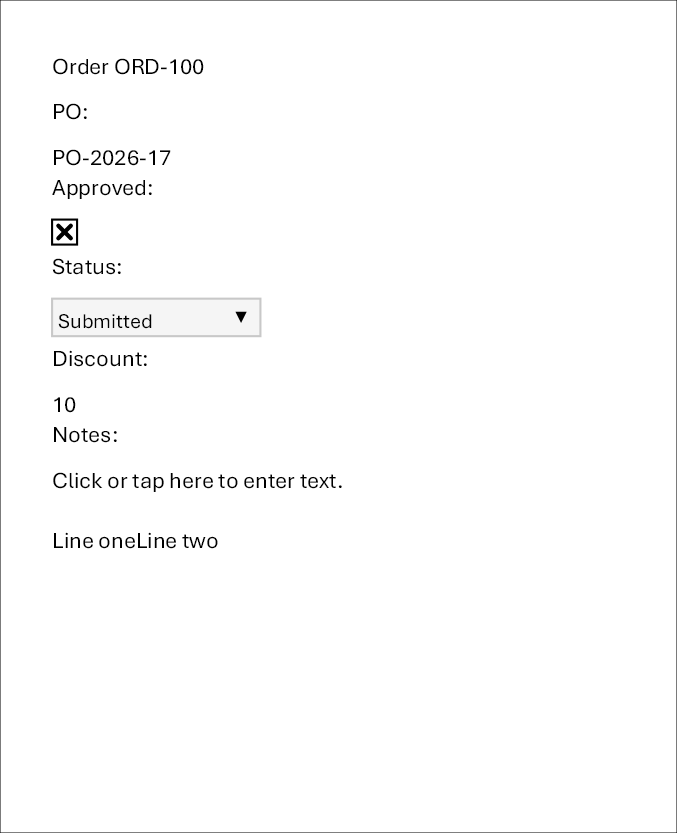
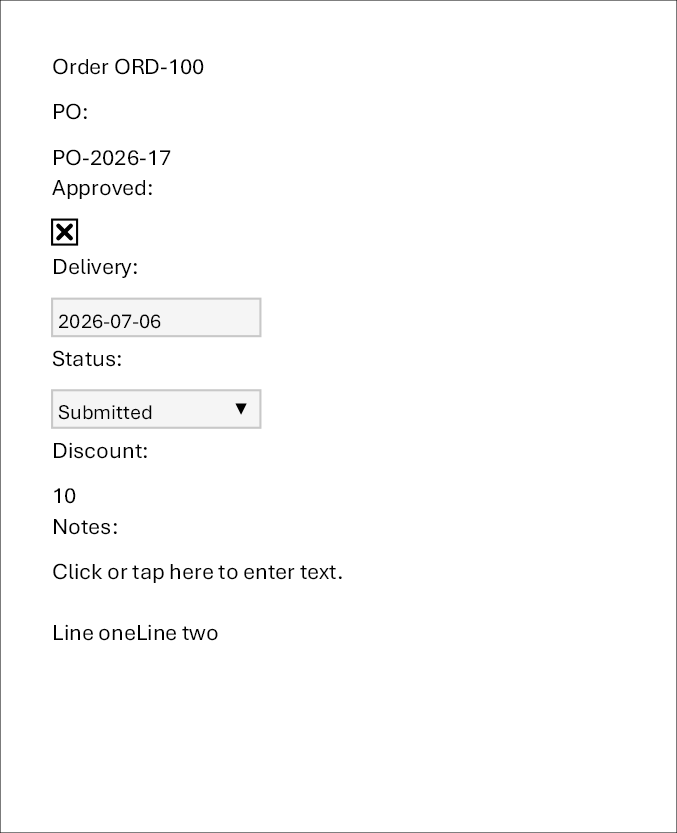
.

diff --git a/src/Parchment.Tests/Docx/EditableFieldTests.cs b/src/Parchment.Tests/Docx/EditableFieldTests.cs
@@ -199,9 +199,6 @@ public class EditableFieldTests
     [Test]
     public async Task RenderAllKinds()
     {
-        // No {{ Delivery }} here: Morph's page render formats the date control from w:fullDate
-        // with the machine locale, which would make the png snapshot culture-dependent. Date
-        // structure is asserted in SdtStructurePerKind instead.
         using var template = DocxTemplateBuilder.Build(
             """
             Order {{ Number }}
@@ -209,6 +206,8 @@ public class EditableFieldTests
             PO: {{ PurchaseOrder }}
 
             Approved: {{ Approved }}
+
+            Delivery: {{ Delivery }}
 
             Status: {{ Status }}
 